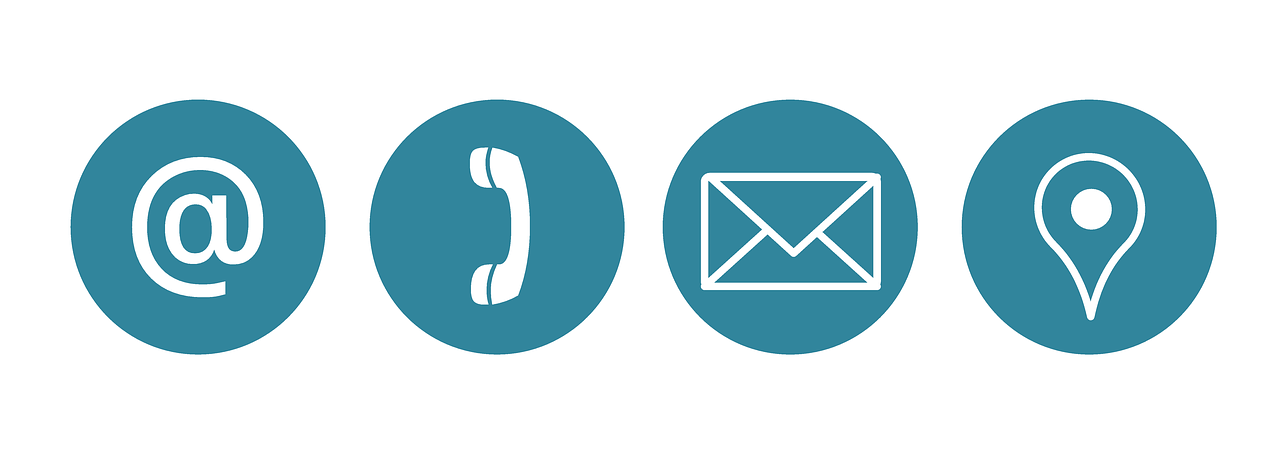
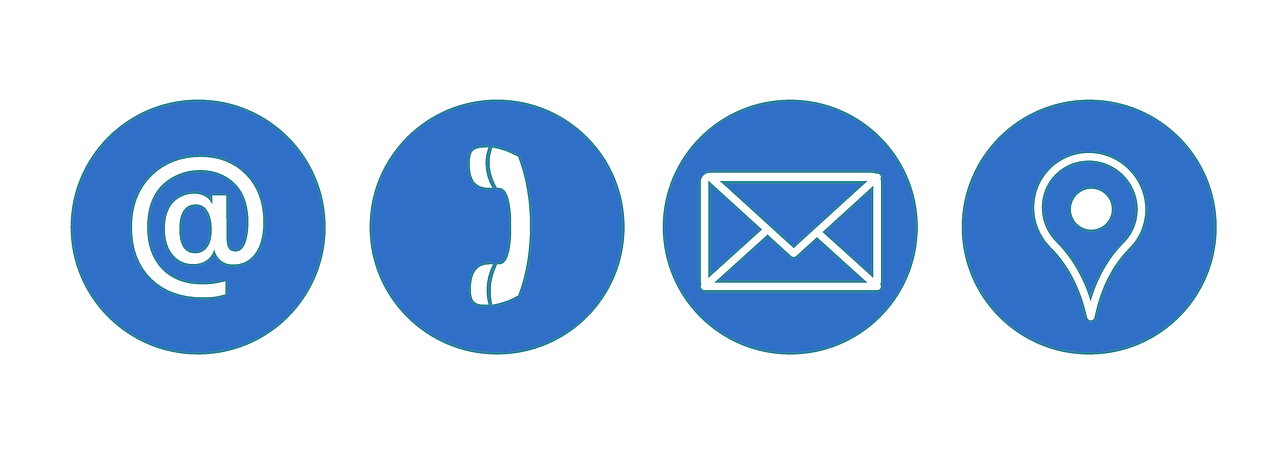
layout update

Changed region(s): [[0.2812, 0.2183, 0.7188, 0.8107], [0.75, 0.2183, 0.9688, 0.7795], [0.0312, 0.2183, 0.25, 0.7795]]

diff --git a/components/Footer.vue b/components/Footer.vue
@@ -1,13 +1,13 @@
 <template>
 
-  <footer class="text-center text-lg-start bg-light text-muted footer">
+  <footer class="text-center text-lg-start text-muted footer" style="background: #0071CE">
     <section class="">
       <div class="container text-center text-md-start mt-5">
         <br>
         <div class="row mt-3">
           <div class="col-md-3 col-lg-4 col-xl-3 mx-auto mb-4">
             <h6 class="text-uppercase fw-bold mb-4" style="text-align: left;">
-              TopTech
+              <p>TopTech</p>
             </h6>
             <p style="text-align: left;">
               Via Schiaffino 11
@@ -17,7 +17,7 @@
           </div>
           <div class="col-md-2 col-lg-2 col-xl-2 mx-auto mb-4" style="text-align: left;">
             <h6 class="text-uppercase fw-bold mb-4">
-              Explore
+              <p>Explore</p>
             </h6>
             <p>
               <a href="/products" class="text-reset">Products</a>
@@ -35,7 +35,7 @@
 
           <div class="col-md-3 col-lg-2 col-xl-2 mx-auto mb-4" style="text-align: left;">
             <h6 class="text-uppercase fw-bold mb-4">
-              Areas
+              <p>Areas</p>
             </h6>
             <p>
               <a @click="goToArea(process.env.BASE_URL+`/areas/${1}`)" style="cursor:pointer;" class="text-reset" >Data Base</a>
@@ -53,8 +53,8 @@
         </div>
       </div>
     </section>
-    <div class="text-center" style="background-color: rgba(0, 0, 0, 0.05);">
-      <p style="text-decoration: none;"> Developed by <b>Bresciani Matteo & D'Ascoli Gabriele </b><br>
+    <div class="text-center" style="background-color: white;">
+      <p style="text-decoration: none; color: black"> Developed by <b>Bresciani Matteo & D'Ascoli Gabriele </b><br>
         Politecnico of Milan</p>
     </div>
   </footer>
@@ -78,6 +78,9 @@ export default {
 /* eslint-disable */
 * {
   box-sizing: border-box;
+}
+p{
+  color: white;
 }
 
 </style>

diff --git a/components/Header.vue b/components/Header.vue
@@ -1,19 +1,19 @@
 <template>
   <header class="container-header">
     <nav class="container container-menu">
-      <div class="row no-gutters" >
+      <div class="row align-self-md-center no-gutters" >
         <div class="col-sm container-menu-item" >
           <a href="/">
-          <img href="/" src="~/assets/img/toptech_logo.png" width="140" height="40">
+          <img href="/" src="~/assets/img/toptech_logo.png" width="139" height="35">
           </a>
         </div>
         <div class="col-sm">
         </div>
         <div class="col-sm">
         </div>
-        <a class=" menu-item " href="/">
-          <div class="col-sm align-middle text-center " >
-            <p >Home</p>
+        <a class="menu-item align-self-md-center " href="/">
+          <div class="col-sm text-center">
+            <p>Home</p>
           </div>
         </a>
         <a class=" menu-item " href="/products">
@@ -48,6 +48,7 @@
 </template>
 
 <script>
+/*eslint-disable*/
 export default {
   name: 'Header'
 }
@@ -55,39 +56,33 @@ export default {
 </script>
 
 <style scoped>
-
+/*eslint-disable*/
 .no-gutters{
   margin-right: 0;
   margin-left: 0;
 }
 
 .container-header {
-  background-color: rgba(0, 128, 128, 0.46);
+  background-color: #0071CE;
   border: 0.5px solid black;
-}
-
-.row {
-  margin: 0 auto;
 }
 
 .menu-item{
   vertical-align: middle;
   text-decoration: none;
-  color: rgba(55, 59, 62, 0.74);
+  color: white;
 }
 
 .menu-item:hover{
 color: black;
 }
-.menu-item:hover{
-  color: black;
-}
 
 .container-menu-item{
   text-align: center;
+  border: 1px solid white;
 }
 .container-menu-item:hover {
-  background-color: #9bb3b0;
+  border: solid 2px #ffffff;
 }
 
 </style>

diff --git a/pages/areas/index.vue b/pages/areas/index.vue
@@ -1,19 +1,19 @@
 <template>
+  <div>
+    <Breadcumb
+      :group="'Areas'"
+    ></Breadcumb>
   <div class="container bg-light">
-    <br>
     <h2>Areas</h2>
     <hr>
-    <br>
-    <br>
     <div class="justify-content-md-center d-flex" id="text">
       <p class="text-info">TopTech announcing new services and tools that help clients with rapid, secure application modernization and containerization helping clients build applications once and deploy anywhere. These new TopTech Services are being delivered by one of the world’s largest teams of Red Hat certified-consultants and practitioners to advise, move, build, and manage clients’ workloads to open, secure, hybrid multicloud environments.</p>
     </div>
-    <br>
     <hr>
     <br>
-    <div class="container" style="width: 100%; margin: 0 auto;">
-      <div class="row justify-content-md-center align-self-center">
-        <div class="col-lg-6 align-self-center col-sm-12 mx-auto" style = "padding: 20px; "  v-for="item in info_area" v-bind:key="item.id">
+    <div class="container" style="width: 100%;">
+      <div class="row  text-center">
+        <div class="col-lg-6 align-bottom col-sm-12 mx-auto" style = "padding: 20px; "  v-for="item in info_area" v-bind:key="item.id">
           <ItemArea
             :id = "item.id"
             :name="item.name_area"
@@ -23,6 +23,7 @@
         </div>
       </div>
     </div>
+  </div>
   </div>
 </template>
 <script>
